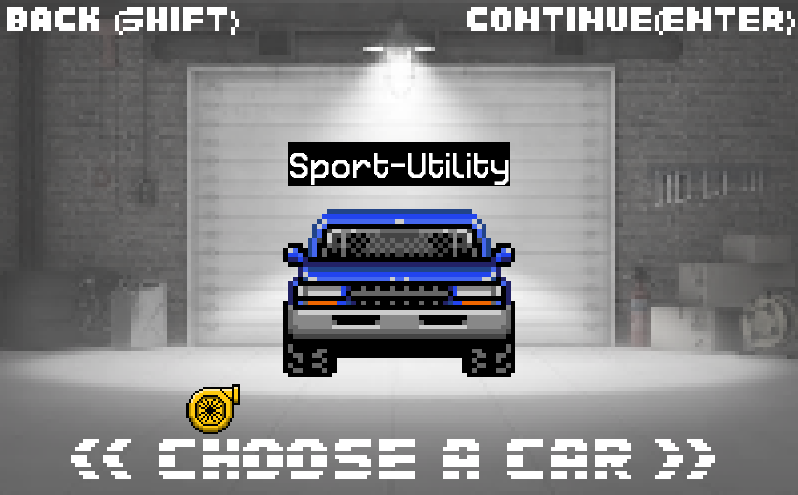
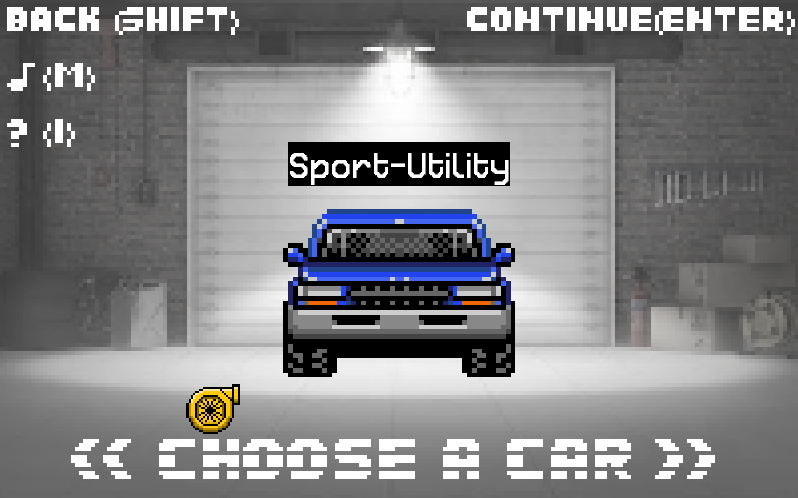
Edited README, Updated Menus To Accommodate New Features, Updated Screenshots, Added New Car Frame

diff --git a/scripts/main.py b/scripts/main.py
@@ -23,7 +23,7 @@ def main():
     along with saving data and pulling data to be read by the objects that need it.
 
 	First all the objects are initialized and then in the following while loop all of the interactions
-	(from user input, to collision detection, to the head-up display and ui) are handled.
+	(from user input, to collision detection, to the head-up display and UI) are handled.
 	"""
     #setup pygame window
     pygame.init()
@@ -68,7 +68,7 @@ def main():
         Two of the three concepts are presented in the 'ingame == False' statement while
         all three are presented in the 'ingame == True' statement.
 		"""
-        #things happening in the out-of-game scenario
+        #things happening during the out-of-game scenario
         if ingame == False:
             #graphics rendering
             #if the menu frame is past the first one, we are no longer on the start screen (this is used to prevent a bug when going back to the start screen)
@@ -123,9 +123,13 @@ def main():
             #if on the car select screen render the respective car's image to give off feel of shuffling through garage, along with the number of golden turbos, and the car name
             if frame == 2:
                 DISPLAY.blit(carrender, (WIDTH/2-carxscale/2,HEIGHT/2-caryadjust))
-                #in the gamedata file the number of ones is the number of completed courses ('000000'-no courses completed, '111111'-all courses completed)
-                for i in range(gamedata.count('1')):
-                    DISPLAY.blit(turborender, ((WIDTH/2+12.5)-((3-i)*75),385))
+                #in the gamedata file the number of ones is the number of completed courses ('0000000'-no courses completed, '1111111'-all courses completed and special car unlocked)
+                if gamedata.count('1') < 6:
+                    for i in range(gamedata.count('1')):
+                        DISPLAY.blit(turborender, ((WIDTH/2+12.5)-((3-i)*75),385))
+                else:
+                    for i in range(6):
+                        DISPLAY.blit(turborender, ((WIDTH/2+12.5)-((3-i)*75),385))
                 cartitlebox = cartitle.get_rect()
                 cartitlebox.centerx = WIDTH/2
                 cartitlebox.centery = HEIGHT/2-caryadjust-40
@@ -147,6 +151,15 @@ def main():
                 coursetitlebox = coursetitle.get_rect()
                 coursetitlebox.centerx = WIDTH/2
                 coursetitlebox.centery = HEIGHT/2
+                DISPLAY.blit(coursetitle, coursetitlebox)
+            #if on the new car unlocked screen render the image of the new car
+            elif frame == 6:
+                carrender = pygame.transform.scale(pygame.image.load('images/player/side4.png'), (570,156))
+                DISPLAY.blit(carrender, (100,HEIGHT/2-50))
+                coursetitle = coursefont.render('x6', True, WHITE, BLACK)
+                coursetitlebox = coursetitle.get_rect()
+                coursetitlebox.left = 125
+                coursetitlebox.centery = 450
                 DISPLAY.blit(coursetitle, coursetitlebox)
 
             #user input
@@ -196,12 +209,28 @@ def main():
                             if playmusic == True:
                                 pygame.mixer.music.play(-1)
                             ingame = True
+                        #go back to car select frame and reset music to default if no new car has been unlocked
+                        elif frame == 4:
+                            #car unlocked scenario
+                            if gamedata.count('1') == 6:
+                                gamedata = '1111111'
+                                file=open('data/gamedata/gamedata.txt','w+')
+                                file.write(gamedata)
+                                file.close()
+                                #new car unlocked frame
+                                frame = 6
+                            #typical scenario
+                            else:
+                                pygame.mixer.music.stop()
+                                pygame.mixer.music.load('music/music0.mp3')
+                                pygame.mixer.music.play(-1)
+                                frame = 2
                         #go back to car select frame and reset music to default
-                        elif frame == 4 or frame == 5:
-                            frame = 2
+                        elif frame == 5 or frame == 6:
                             pygame.mixer.music.stop()
                             pygame.mixer.music.load('music/music0.mp3')
                             pygame.mixer.music.play(-1)
+                            frame = 2
                     #go back to the previous menu frame
                     if event.key == (pygame.K_LSHIFT or pygame.K_RSHIFT):
                         if frame == 2:
@@ -211,8 +240,10 @@ def main():
                             frame = 2
                     #reset game data
                     if event.key == pygame.K_r:
+                        car = 1
+                        course = 1
                         file=open('data/gamedata/gamedata.txt','w+')
-                        gamedata = '000000'
+                        gamedata = '0000000'
                         file.write(gamedata)
                         file.close()
                     #toggle music on or off
@@ -233,7 +264,7 @@ def main():
                             pygame.mixer.music.load('music/musicl.mp3')
                             pygame.mixer.music.play(1)
 
-        #things happening in the in-game scenario
+        #things happening during the in-game scenario
         else:
             #display the course background
             DISPLAY.blit(window, (2*street.tilt-100,0))
@@ -386,7 +417,7 @@ def main():
             DISPLAY.blit(completiontext, completionbox)
             DISPLAY.blit(conditiontext, conditionbox)
 
-        #the following line continously calls the while loop
+        #the following line continuously calls the while loop
         pygame.display.update()
 
 #the following line calls the main function and starts the game

diff --git a/scripts/laserbeam.py b/scripts/laserbeam.py
@@ -17,7 +17,7 @@ class Laserbeam:
 	def __init__(self, track = 1, img = pygame.transform.scale(pygame.image.load('images/objects/laserbeam.png'), (85, 500))):
 		"""
 		The '__init__()' function defines the source image for the lasers and the possibilities of how the
-        lasers will act,as well as some positioning and collision defaults.
+        lasers will act, as well as some positioning and collision defaults.
 		"""
 		#this sets the initial time to determine when to update the lasers
 		self.starttime = time.clock()
@@ -56,7 +56,7 @@ class Laserbeam:
 
 	def update(self):
 		"""
-		The 'update()' function defines how the lasers will act depending on a random given number, and controlls the speeds at which they move.
+		The 'update()' function defines how the lasers will act depending on a random given number, and controls the speeds at which they move.
 		"""
 		#update the current time
 		self.currenttime = time.clock()

diff --git a/scripts/trackgenerator.py b/scripts/trackgenerator.py
@@ -34,7 +34,7 @@ class TrackGenerator:
 
 	def generate(self):
 		"""
-		The 'generate()' function uses the predefined pieces for a track witten with strings to make a complete track.
+		The 'generate()' function uses the predefined pieces for a track written with strings to make a complete track.
 		"""
 		#continuously add pieces to the overall track
 		'''

diff --git a/README.md b/README.md
@@ -3,7 +3,7 @@
 <img src="images/screenshots/mainmenu.png" alt="Main Menu Screenshot" width="400" height="250"/>   
    
 ## Running The Game:   
-In order to run PyRacer you will have to first install Pygame, as this is the library much of this code is based on.   
+In order to run PyRacer you will have to first install PyGame, as this is the library much of this code is based on.   
 To install run the following code that best fits your situation in your terminal:   
 Globally on your OS- `python3 -m pip install -U pygame`   
 For a singular user- `python3 -m pip install -U pygame --user`   
@@ -15,19 +15,19 @@ Here, we have a 2.5D car racing game, in which you have to drive your selected c
 
 The goal of this game is to beat all 6 stages to unlock the last car. Each stage of this racing game is a track, that a car that completes 3 rounds through a selected track chosen in the menu.   
 
-For car choices, we have an option of the fastest car, but low durability, a medium speed car with medium durabiility, and a low speed car with high durability, and your objective is to complete the stage without your car getting destroyed.   
+For car choices, we have an option of the fastest car, but low durability, a medium speed car with medium durability, and a low speed car with high durability, and your objective is to complete the stage without your car getting destroyed.   
 
-There are laserbeams coming overhead which enact damage to your car if it comes in contact. We have turbochargers as icons, which signify the number of stages you have completed. A golden turbocharger means you have completed one of the six stages.   
+There are laser beams coming overhead which enact damage to your car if it comes into contact with the beams. We have turbochargers as icons, which signify the number of stages you have completed. A golden turbocharger means you have completed one of the six stages.   
 
 In order to reset number of turbochargers and the saved game data, simply press "r" in the menu.   
-In the folder, if you navigate to `data/gamedata/gamedata.txt`, you will see any collection of six numbers that are either 0's or 1's, which represent the completion values of each course completed. Changing them to 0, changes it to uncompleted.   
+In the folder, if you navigate to `data/gamedata/gamedata.txt`, you will see any collection of seven numbers that are either 0's or 1's, which represent the completion values of each course completed. Changing them all to 0, sets all courses as uncompleted.   
 
 You also have differnet background music for each of the stages, as well as a HUD and stage completion idicator, giving you all the information you need to finish the stage.   
-To toggle the music on or off at any time press "m".   
+To toggle the music on or off at any time, press "m".   
 
-To open the webpage for PyRacer's infromation (it will be a link to this page on github) press "i".   
+To open the web-page for PyRacer's information (it will be a link to this page on GitHub), press "i".   
 
-In summation, this game is a modern adaptation of the classic SEGA game 'Outrun', with a remix to the original gameplay where the you can choose between three different cars and race along 6 different courses. The primary objective of this game is to complete all six courses successfuly, and if this goal is achieved you will be rewared with the special fourth car. Below are the basic descriptions of each car.   
+In summation, this game is a modern adaptation of the classic SEGA game 'Outrun', with a remix to the original game play where the you can choose between three different cars and race along 6 different courses. The primary objective of this game is to complete all six courses successfully, and if this goal is achieved you will be rewarded with the special fourth car. Below are the basic descriptions of each car.   
 
 *P.S. If you have unlocked the special fourth car press "l" at any time for a surprise!*   
 
@@ -49,7 +49,7 @@ This car is the slowest but most durable.
 
 
 ## Under The Hood:   
-This game utilizes the PyGame library to acomplish several tasks; from rendering images and playing music to displaying the head-up display and handling user input. Used in accordance with object-oriented programming this game is brought to life.   
+This game utilizes the PyGame library to accomplish several tasks; from rendering images and playing music to displaying the head-up display and handling user input. Used in accordance with object-oriented programming this game is brought to life.   
 <img src="images/screenshots/gameplay.png" alt="Gameplay Screenshot" width="400" height="250"/>   
 
 ### Classes & Methods:   
@@ -71,8 +71,8 @@ The 'readtrack()' function reads through the track data file and dictates how th
 #### The 'Laserbeam' Class & File:  
 This 'Laserbeam' class is used to display and update the laserbeam object (the obstacles that the user must avoid).   
 +------------------------------------------------------------------------------------------------------------------+   
-The '\__init__()' function defines the source image for the lasers and the possibilities of how the lasers will act,as well as some positioning and collision defaults.   
-The 'update()' function defines how the lasers will act depending on a random given number, and controlls the speeds at which they move.   
+The '\__init__()' function defines the source image for the lasers and the possibilities of how the lasers will act, as well as some positioning and collision defaults.   
+The 'update()' function defines how the lasers will act depending on a random given number, and controls the speeds at which they move.   
 
 #### The 'TrackGenerator' Class & File:  
 The 'TrackGenerator' class is used to generate a list of numbers that will correlate to how the in-game road will operate.   
@@ -84,13 +84,13 @@ Each number from 1 through 5 will cause the road to act differently:
 5 - Road holds to the right.   
 +------------------------------------------------------------------------------------------------------------------+   
 The '\__init__()' function defines the possible pieces of the track that can be put together.   
-The 'generate()' function uses the predefined pieces for a track witten with strings to make a complete track.   
+The 'generate()' function uses the predefined pieces for a track written with strings to make a complete track.   
 
 ##### In addition to these classes there is the fundamental 'main' function.   
 
 #### The 'main' Function:   
 The 'main()' function is used to run the game, manage which objects render, and play music, along with saving data and pulling data to be read by the objects that need it.   
-First all the objects are initialized and then in the following while loop all of the interactions (from user input, to collision detection, to the head-up display and ui) are handled.   
+First all the objects are initialized and then in the following while loop all of the interactions (from user input, to collision detection, to the head-up display and UI) are handled.   
 ##### The while loop:   
 Although dispersed, the while loop in this function can be split into three overall concepts: Graphics Rendering, User Input, and Collision Detection.   
 Two of the three concepts are presented in the 'ingame == False' statement while all three are presented in the 'ingame == True' statement.   
@@ -108,7 +108,7 @@ Lil Uzi Vert; "Lotus"; Eternal Atake (Deluxe); WMG (on behalf of Atlantic Record
 
 Vivid Sound × Hybrid Colors: Sonic Colors Original Soundtrack; Wave Master.   
 
-*All other source files were either royalt-free or made in-house.*
+*All other source files were either royalty-free or made in-house.*
 
 
 
